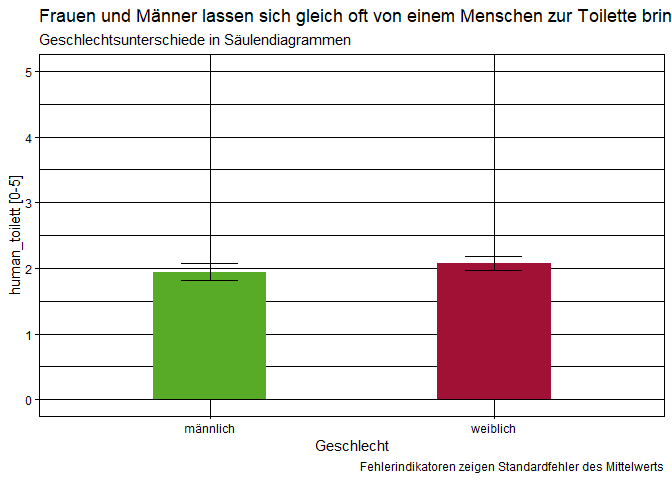
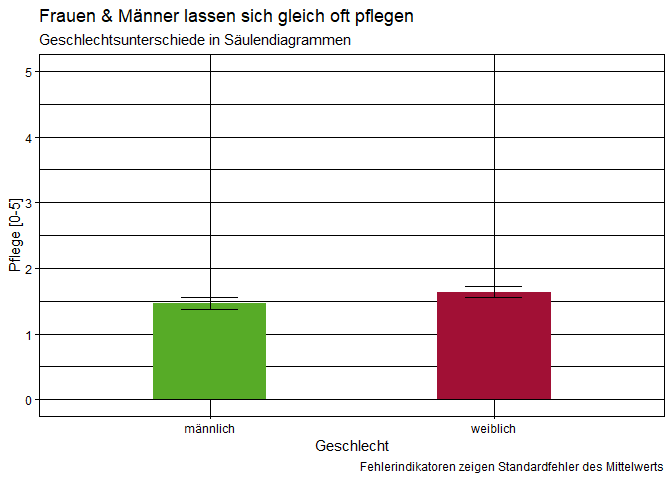
Pflege anstatt human_toilett

diff --git a/AndreaWiel/Diagramme_Wiel.md b/AndreaWiel/Diagramme_Wiel.md
@@ -1,7 +1,7 @@
     library(ggplot2)
 
     ggplot(datensatz) +
-     aes(x = gender, weight = human_toilett) +
+     aes(x = gender, weight = pflege) +
      geom_bar(fill = "#0c4c8a") +
      labs(x = " ", y = " ", title = " ", subtitle = " ", caption = " ") +
      theme_linedraw()
@@ -11,18 +11,18 @@
     datensatz %>% 
       filter(gender != "keine Angabe") %>%
       group_by(gender) %>%
-      summarise(human_toilett_m = mean(human_toilett, na.rm = TRUE)-1, human_toilett_sem = std.error(human_toilett)) %>%
+      summarise(pflege_m = mean(pflege, na.rm = TRUE)-1, pflege_sem = std.error(pflege)) %>%
     ggplot() +
-     aes(x = gender, weight = human_toilett_m, 
-         ymin = human_toilett_m-human_toilett_sem, 
-         ymax = human_toilett_m+human_toilett_sem, 
+     aes(x = gender, weight = pflege_m, 
+         ymin = pflege_m-pflege_sem, 
+         ymax = pflege_m+pflege_sem, 
          fill = gender) +
      geom_bar(fill = c(rwthfarben$green, rwthfarben$bordeaux), width = 0.4) +
       geom_errorbar(width = 0.2) +
       scale_y_continuous(limits = c(0,5)) +
      labs(x = "Geschlecht",
-          y = "human_toilett [0-5]",
-          title = "Frauen und Männer lassen sich gleich oft von einem Menschen zur Toilette bringen",
+          y = "pflege [0-5]",
+          title = "Frauen & Männer lassen sich gleich oft pflegen",
           subtitle = "Geschlechtsunterschiede in Säulendiagrammen",
           caption = "Fehlerindikatoren zeigen Standardfehler des Mittelwerts") +
      theme_linedraw() +
